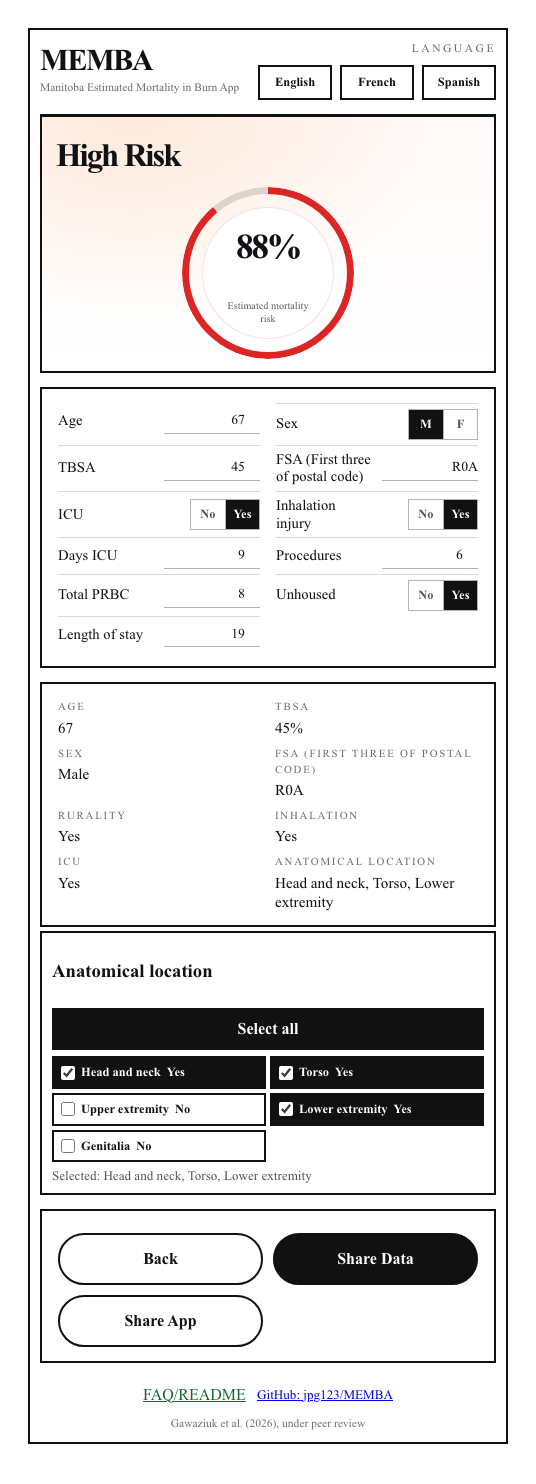
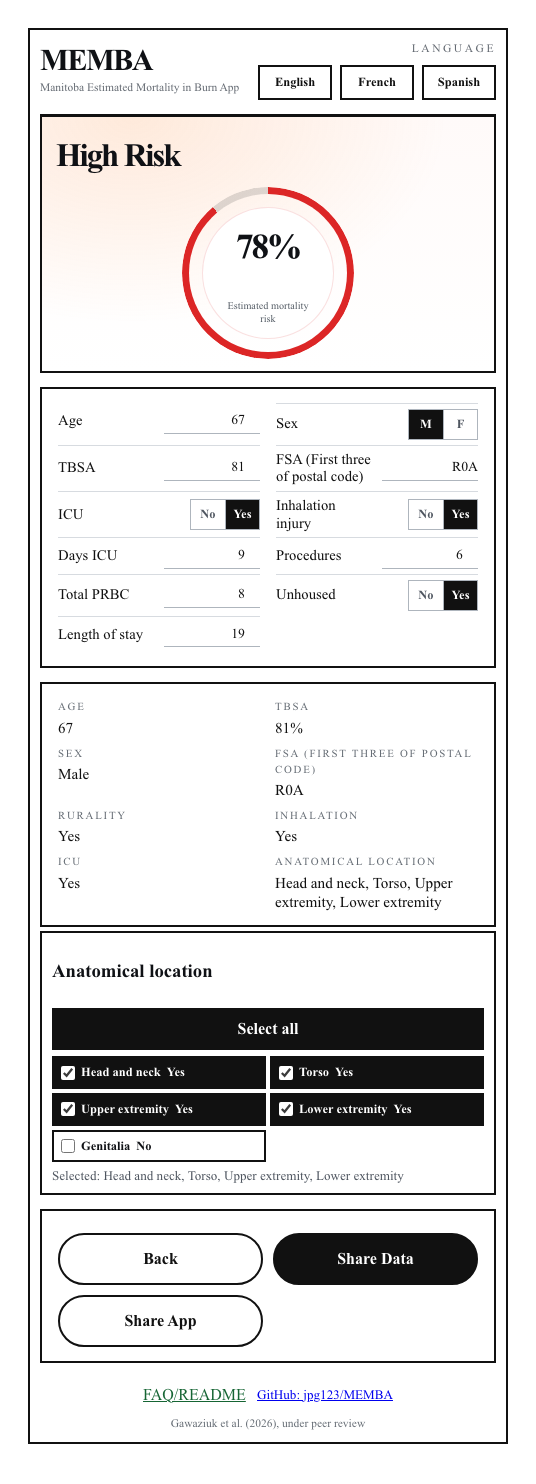
Exclude descriptive fields from MEMBA model

diff --git a/src/App.tsx b/src/App.tsx
@@ -157,7 +157,7 @@ const localeStrings: Record<Language, LocaleStrings> = {
     calculationThreshold: 'High-risk state at a predicted probability of 50% or greater',
     calculationNote: 'This is the fitted logistic-regression model output using the available app inputs. It is an estimated mortality risk, not a clinical decision rule.',
     calculationFormulaText: 'Predicted risk = 1 / (1 + exp(−linear predictor)); the linear predictor is the fitted intercept plus the coefficient-weighted processed inputs. Missing numeric values use training-cohort medians.',
-    calculationFieldsText: 'Model inputs: age, sex, rurality, ICU use, housing status, TBSA, length of stay, procedures, transfusion, ICU days and inhalation injury. Anatomical location is displayed but is not used by the fitted model.',
+    calculationFieldsText: 'Model inputs: age, sex, rurality, ICU use, housing status, TBSA, procedures, transfusion, ICU days and inhalation injury. Length of stay and anatomical location are displayed for context but are not used by the fitted model.',
     medianIfBlank: 'Training median if blank',
     noneSelected: 'None selected',
     faqTitle: 'FAQ/README',
@@ -165,8 +165,8 @@ const localeStrings: Record<Language, LocaleStrings> = {
     faqItems: [
       { question: 'What does the displayed risk mean?', answer: 'It is the estimated mortality risk from the fitted no-etiology logistic-regression model.' },
       { question: 'How does age differ from the Baux score?', answer: 'The Baux score adds age as a linear value. MEMBA models age with a flexible nonlinear function, so the estimated effect of age can change across the age range. This is a modeling distinction, not a claim that the Baux score is invalid; see Osler et al. (2010) for the modified Baux score.' },
-      { question: 'How is the estimated risk calculated?', answer: 'The app combines the model inputs entered, including age, burn size, inhalation injury, intensive care and hospital course. Anatomical location remains displayed for context but is not used by the fitted model. The model combines the weighted inputs and converts the result into an estimated percentage. Blank numeric fields are replaced with the median value from the training cohort.' },
-      { question: 'Which inputs change the current risk?', answer: 'Age, sex, FSA-derived rurality, TBSA, inhalation injury, ICU use, ICU days, length of stay, procedures, transfusion and housing status are used by the model. Anatomical location is displayed but is not used by the fitted model.' },
+      { question: 'How is the estimated risk calculated?', answer: 'The app combines the model inputs entered, including age, burn size, inhalation injury, intensive care and selected hospital-course variables. Length of stay and anatomical location remain displayed for context but are not used by the fitted model. The model combines the weighted inputs and converts the result into an estimated percentage. Blank numeric fields are replaced with the median value from the training cohort.' },
+      { question: 'Which inputs change the current risk?', answer: 'Age, sex, FSA-derived rurality, TBSA, inhalation injury, ICU use, ICU days, procedures, transfusion and housing status are used by the model. Length of stay and anatomical location are displayed but are not used by the fitted model.' },
       { question: 'Can TBSA include a decimal?', answer: 'Yes. Enter one decimal place, such as 12.3%. The model uses the entered TBSA value.' },
       { question: 'What does Share App send?', answer: 'Share App sends a link that opens MEMBA at rest in English. Share Data sends the selected figure example. On iPhone or iPad, the native share sheet can send the link through Messages or iMessage. On Android, native sharing depends on the browser and device; if it is unavailable, the app copies the link so it can be pasted into a message.' },
     ],
@@ -235,7 +235,7 @@ const localeStrings: Record<Language, LocaleStrings> = {
     calculationThreshold: 'État à risque élevé à partir d’une probabilité prédite de 50 %',
     calculationNote: 'Il s’agit de la sortie du modèle de régression logistique ajusté et d’une estimation du risque de mortalité.',
     calculationFormulaText: 'Risque prédit = 1 / (1 + exp(−prédicteur linéaire)); le prédicteur linéaire est l’interception ajustée plus les valeurs traitées pondérées par les coefficients. Les valeurs numériques manquantes utilisent les médianes de la cohorte d’entraînement.',
-    calculationFieldsText: 'Variables du modèle : âge, sexe, ruralité, utilisation des soins intensifs, situation de logement, TBSA, durée de séjour, interventions, transfusion, jours aux soins intensifs, lésion par inhalation et localisation anatomique.',
+    calculationFieldsText: 'Variables du modèle : âge, sexe, ruralité, utilisation des soins intensifs, situation de logement, TBSA, interventions, transfusion, jours aux soins intensifs et lésion par inhalation. La durée de séjour et la localisation anatomique restent affichées à titre descriptif, mais ne sont pas utilisées par le modèle ajusté.',
     medianIfBlank: 'Médiane d’entraînement si vide',
     noneSelected: 'Aucune sélection',
     faqTitle: 'FAQ/README',
@@ -243,7 +243,7 @@ const localeStrings: Record<Language, LocaleStrings> = {
     faqItems: [
       { question: 'Que signifie le risque affiché ?', answer: 'Il s’agit du risque estimé de mortalité calculé par le modèle de régression logistique ajusté sans étiologie.' },
       { question: 'Comment l’âge diffère-t-il du score de Baux ?', answer: 'Le score de Baux ajoute l’âge comme une valeur linéaire. MEMBA modélise l’âge avec une fonction non linéaire flexible, de sorte que son effet estimé peut varier selon l’âge. Il s’agit d’une différence de modélisation et non d’une affirmation que le score de Baux est invalide; voir Osler et al. (2010) pour le score de Baux modifié.' },
-      { question: 'Comment le risque estimé est-il calculé ?', answer: 'L’application combine les informations saisies sur le patient, notamment l’âge, la taille de la brûlure, la lésion par inhalation, les soins intensifs, le déroulement de l’hospitalisation et la localisation anatomique. Le modèle ajusté attribue un poids à chaque information selon sa relation avec la mortalité dans cette étude, combine ces informations pondérées et convertit le résultat en pourcentage estimé. Les champs numériques vides sont remplacés par la valeur médiane de la cohorte d’entraînement.' },
+      { question: 'Comment le risque estimé est-il calculé ?', answer: 'L’application combine les variables incluses dans le modèle, notamment l’âge, la taille de la brûlure, la lésion par inhalation, les soins intensifs et certaines variables du séjour hospitalier. La durée de séjour et la localisation anatomique restent affichées à titre descriptif, mais ne sont pas utilisées par le modèle ajusté. Les champs numériques vides sont remplacés par la valeur médiane de la cohorte d’entraînement.' },
       { question: 'Quelles entrées modifient le risque actuel ?', answer: 'Les variables affichées sont traitées par le modèle de régression logistique ajusté.' },
       { question: 'La TBSA peut-elle contenir une décimale ?', answer: 'Oui. Entrez une décimale, par exemple 12,3 %. Le modèle utilise la valeur de TBSA saisie.' },
       { question: 'Que partage le bouton Partager l’application ?', answer: 'Le bouton Partager l’application envoie un lien qui ouvre MEMBA au repos en anglais. Le bouton Partager les données envoie l’exemple illustré sélectionné. Sur iPhone ou iPad, la feuille de partage peut envoyer le lien par Messages ou iMessage. Sur Android, le partage dépend du navigateur et de l’appareil; s’il n’est pas disponible, l’application copie le lien pour qu’il soit collé dans un message.' },
@@ -313,7 +313,7 @@ const localeStrings: Record<Language, LocaleStrings> = {
     calculationThreshold: 'Estado de alto riesgo con una probabilidad predicha de 50% o más',
     calculationNote: 'Es el resultado del modelo de regresión logística ajustado y una estimación del riesgo de mortalidad.',
     calculationFormulaText: 'Riesgo predicho = 1 / (1 + exp(−predictor lineal)); el predictor lineal es la intersección ajustada más los valores procesados ponderados por los coeficientes. Los valores numéricos faltantes usan las medianas de la cohorte de entrenamiento.',
-    calculationFieldsText: 'Variables del modelo: edad, sexo, ruralidad, uso de UCI, situación de vivienda, TBSA, duración de la estancia, procedimientos, transfusión, días en UCI y lesión por inhalación. La localización anatómica se muestra pero no se utiliza en el modelo ajustado.',
+    calculationFieldsText: 'Variables del modelo: edad, sexo, ruralidad, uso de UCI, situación de vivienda, TBSA, procedimientos, transfusión, días en UCI y lesión por inhalación. La duración de la estancia y la localización anatómica se muestran como contexto pero no se utilizan en el modelo ajustado.',
     medianIfBlank: 'Mediana de entrenamiento si está vacío',
     noneSelected: 'Ninguno seleccionado',
     faqTitle: 'FAQ/README',
@@ -354,8 +354,8 @@ const featureRows: FeatureItem[] = [
   { label: 'Age', valueLow: '34', valueHigh: '67', scale: 'Years' },
   { label: 'Sex', valueLow: 'Female', valueHigh: 'Male', scale: 'Binary' },
   // Rule-of-Nines-compatible capture examples: 9% for one upper extremity
-  // and 45% for head/neck (9%) + torso (18%) + one lower extremity (18%).
-  { label: 'TBSA', valueLow: '9', valueHigh: '45', scale: 'Percent burned' },
+  // and 81% for head/neck (9%) + torso (18%) + both upper (18%) and lower (36%) extremities.
+  { label: 'TBSA', valueLow: '9', valueHigh: '81', scale: 'Percent burned' },
   // FSA is used only to derive Rurality and is not an independent model feature.
   { label: 'FSA', valueLow: 'R3B', valueHigh: 'R0A', scale: '3 characters' },
   { label: 'ICU', valueLow: 'No', valueHigh: 'Yes' },
@@ -432,7 +432,7 @@ function App() {
     const valid = requested.filter((item): item is LocationOption => locationOptions.includes(item as LocationOption))
     if (valid.length) return valid
     if (!query.has('state')) return []
-    return state === 'low' ? ['Upper extremity'] : ['Head and neck', 'Torso', 'Lower extremity']
+    return state === 'low' ? ['Upper extremity'] : ['Head and neck', 'Torso', 'Upper extremity', 'Lower extremity']
   })
   const [featureValues, setFeatureValues] = useState<Record<string, string>>(() =>
     Object.fromEntries(featureRows.map((item) => [

diff --git a/README.md b/README.md
@@ -10,25 +10,25 @@ It is for research, education and discussion. It does not replace clinical judgm
 
 1. Select a language: English, French or Spanish. The app name remains MEMBA.
 2. Enter the patient information available at the time of assessment.
-3. Select the relevant anatomical locations.
+3. Enter the available model inputs. Length of stay and anatomical locations remain visible in the interface for context but do not affect the estimated risk.
 4. Select **Calculate risk**.
 5. Review the estimated mortality risk and the information entered.
 
-The demonstration figures use Rule-of-Nines-compatible examples. The low-risk example uses 9%TBSA with one upper extremity selected. The high-risk example uses 45%TBSA from head and neck (9%), torso (18%) and one lower extremity (18%). The calculated-risk summary displays both %TBSA and the selected anatomical locations.
+The demonstration figures use Rule-of-Nines-compatible examples. The low-risk example uses 9%TBSA with one upper extremity selected. The high-risk example uses 81%TBSA from head and neck (9%), torso (18%), both upper extremities (18%) and both lower extremities (36%). The calculated-risk summary displays %TBSA and the selected anatomical locations. Anatomical location and length of stay are descriptive interface fields and are not model inputs.
 
 ## Submission examples
 
 The following examples are the same image files used for the journal submission figures.
 
-### Figure 3A-C MEMBA at-rest panels
+### Figure 2A-C MEMBA at-rest panels
 
 A horizontal three-panel black-and-white composite shows the MEMBA application before a risk calculation: English in panel A, French in panel B and Spanish in panel C. Each panel has a border and shows the input fields, anatomical-location controls, disclosure, and the GitHub: jpg123/MEMBA link.
 
 ![Figure 3A-C MEMBA at-rest panels](at-rest-panels.png)
 
-### Figure 4A-B MEMBA risk examples
+### Figure 3A-B MEMBA risk examples
 
-A horizontal two-panel color composite shows a low-risk MEMBA example with 9%TBSA and the upper extremity selected in panel A and a high-risk example with 45%TBSA from head and neck, torso and lower extremity selections in panel B. Each panel has a border and the summary panel displays %TBSA and the selected anatomical locations.
+Low-risk and high-risk MEMBA examples with the selected model covariates shown in panels A and B, respectively. Length of stay and anatomical location are displayed but are not included as model covariates.
 
 ![Figure 4A-B MEMBA risk examples](risk-panels.png)
 
@@ -42,11 +42,11 @@ The estimate uses:
 - %TBSA
 - ICU use and ICU days
 - Inhalation injury
-- Anatomical location
 - Housing status
 - Procedures (enter 0 when no procedure has occurred)
-- Length of stay
 - Total packed red blood cell units
+
+Length of stay and anatomical location are displayed as contextual information but are excluded from the fitted model.
 
 ## How the estimate is produced
 
@@ -56,7 +56,7 @@ The estimate is calculated as:
 
 `Estimated mortality risk = 1 / (1 + exp(-combined model value))`
 
-The combined model value starts with the model intercept and adds the contribution from each entered model variable. Each contribution is calculated by multiplying the processed patient value by the fitted coefficient for that variable. Positive contributions increase the estimated risk, while negative contributions decrease it. Age is represented using the model’s spline terms rather than a single straight-line age effect. Yes/no findings and anatomical locations are represented as indicator values. The logistic conversion changes the combined value, which is on a log-odds scale, into a number between 0 and 1; this number is displayed as a percentage.
+The combined model value starts with the model intercept and adds the contribution from each fitted model input. Each contribution is calculated by multiplying the processed patient value by its fitted coefficient. Positive contributions increase the estimated risk, while negative contributions decrease it. Age is represented using the model’s spline terms rather than a single straight-line age effect. The logistic conversion changes the combined value, which is on a log-odds scale, into a number between 0 and 1; this number is displayed as a percentage. Anatomical-location selections and length of stay do not contribute to the calculation.
 
 Blank numeric fields use the median value from the model training cohort. A procedure value of 0 is a true zero and is different from leaving the field blank. Missing total packed red blood cell values are treated as zero because most patients did not receive transfusion.
 
